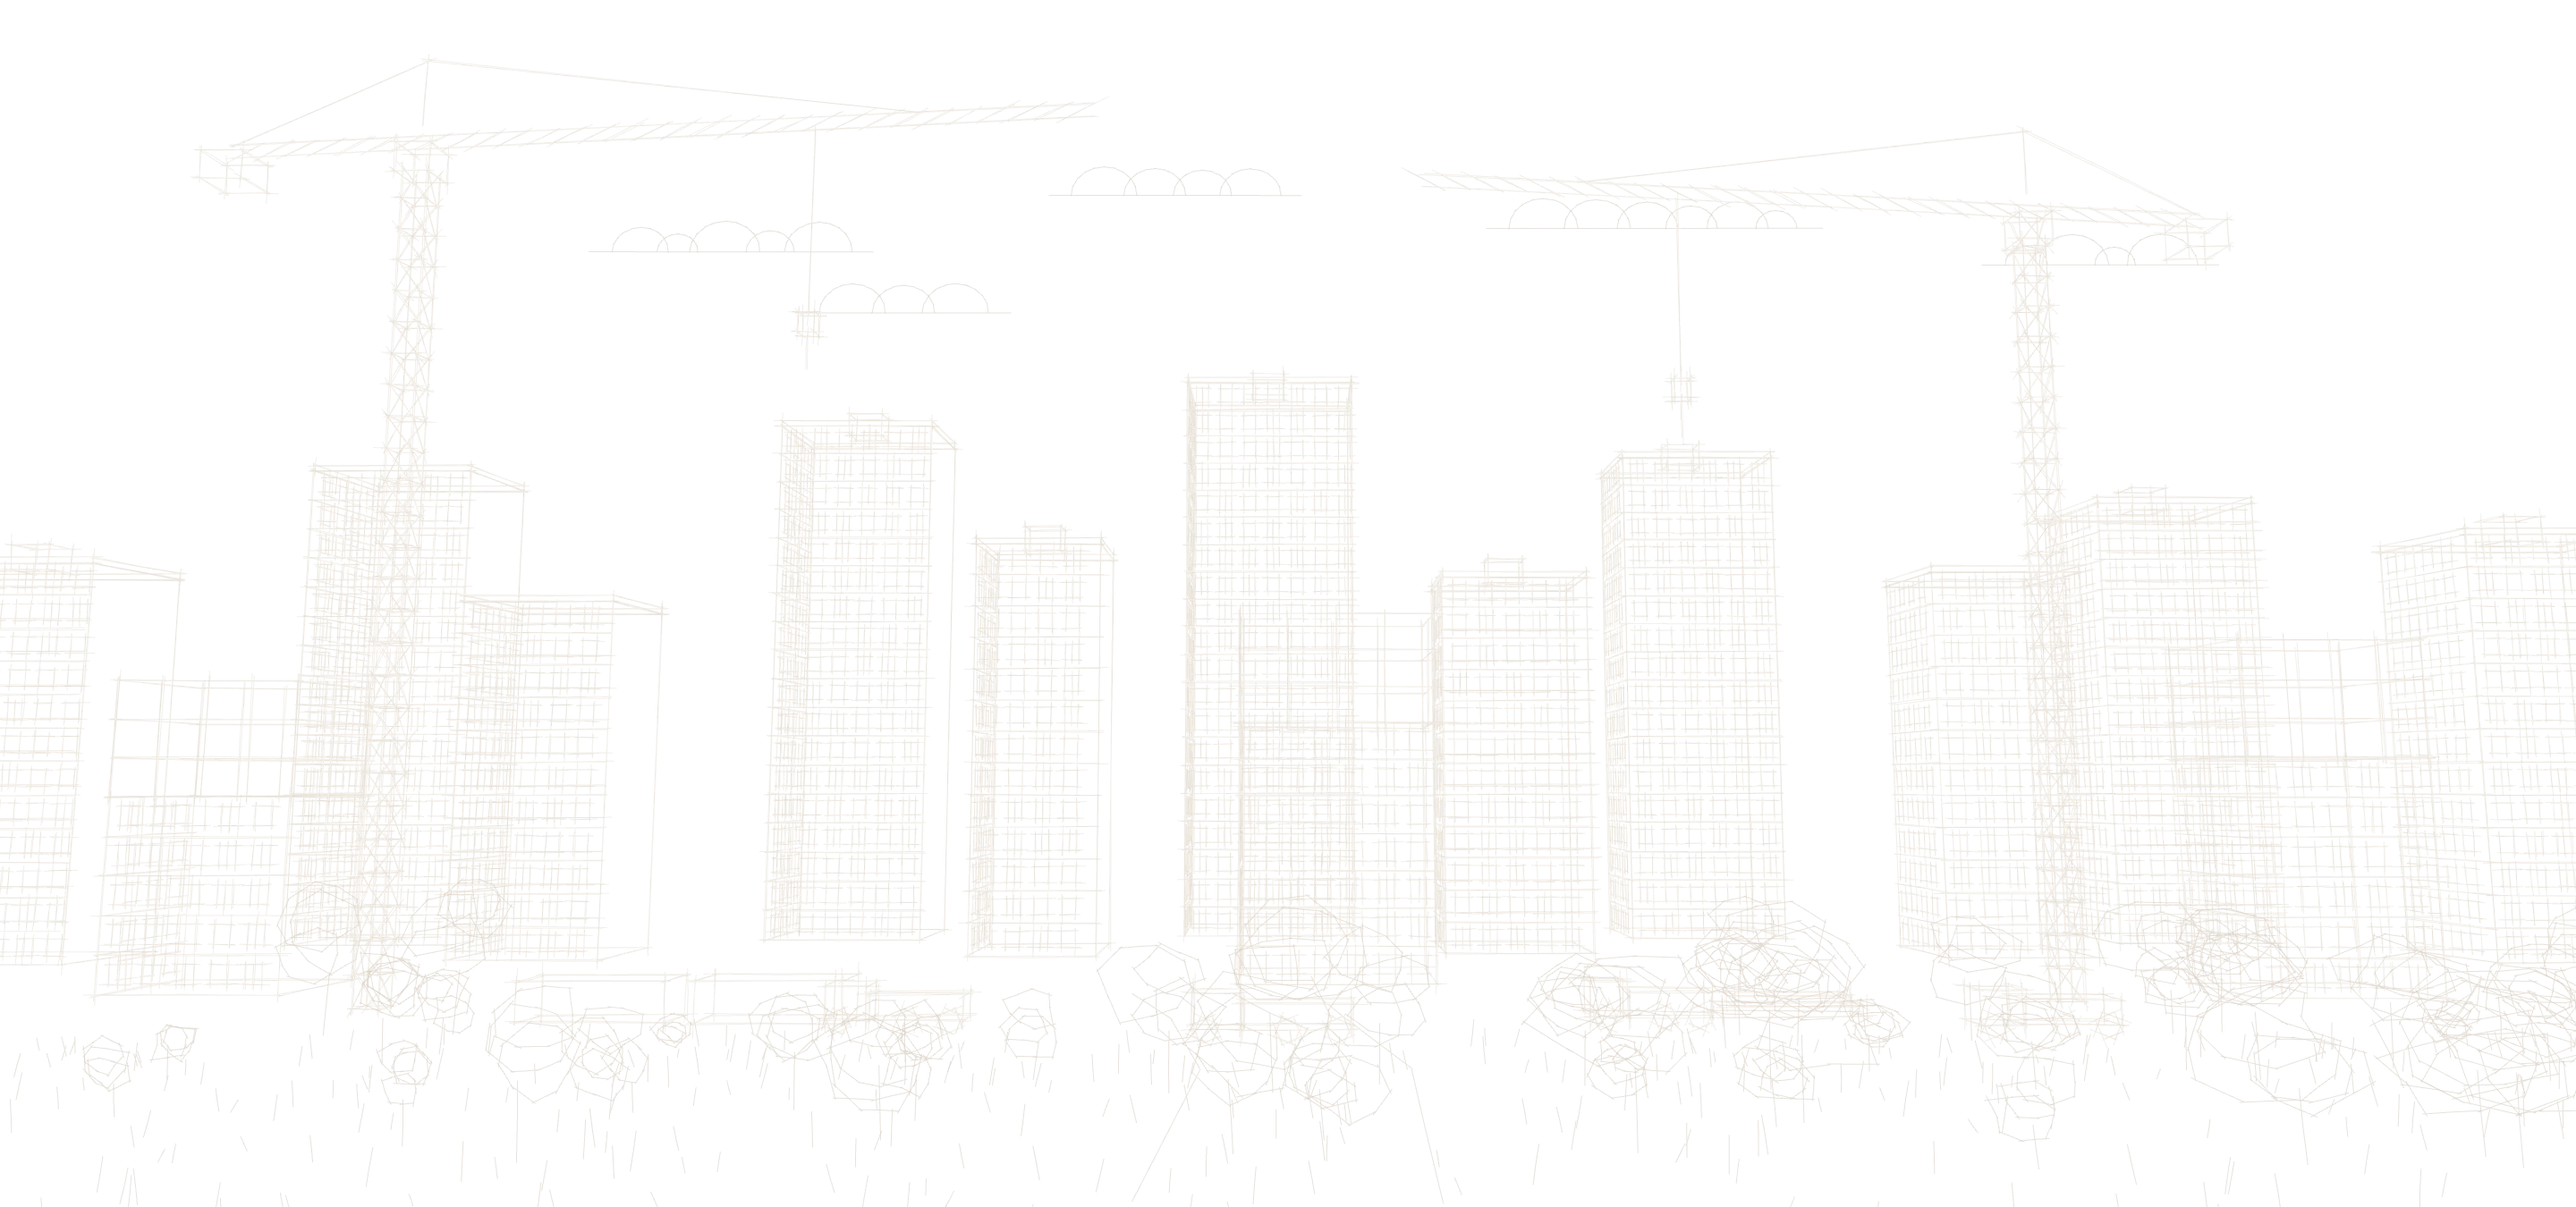
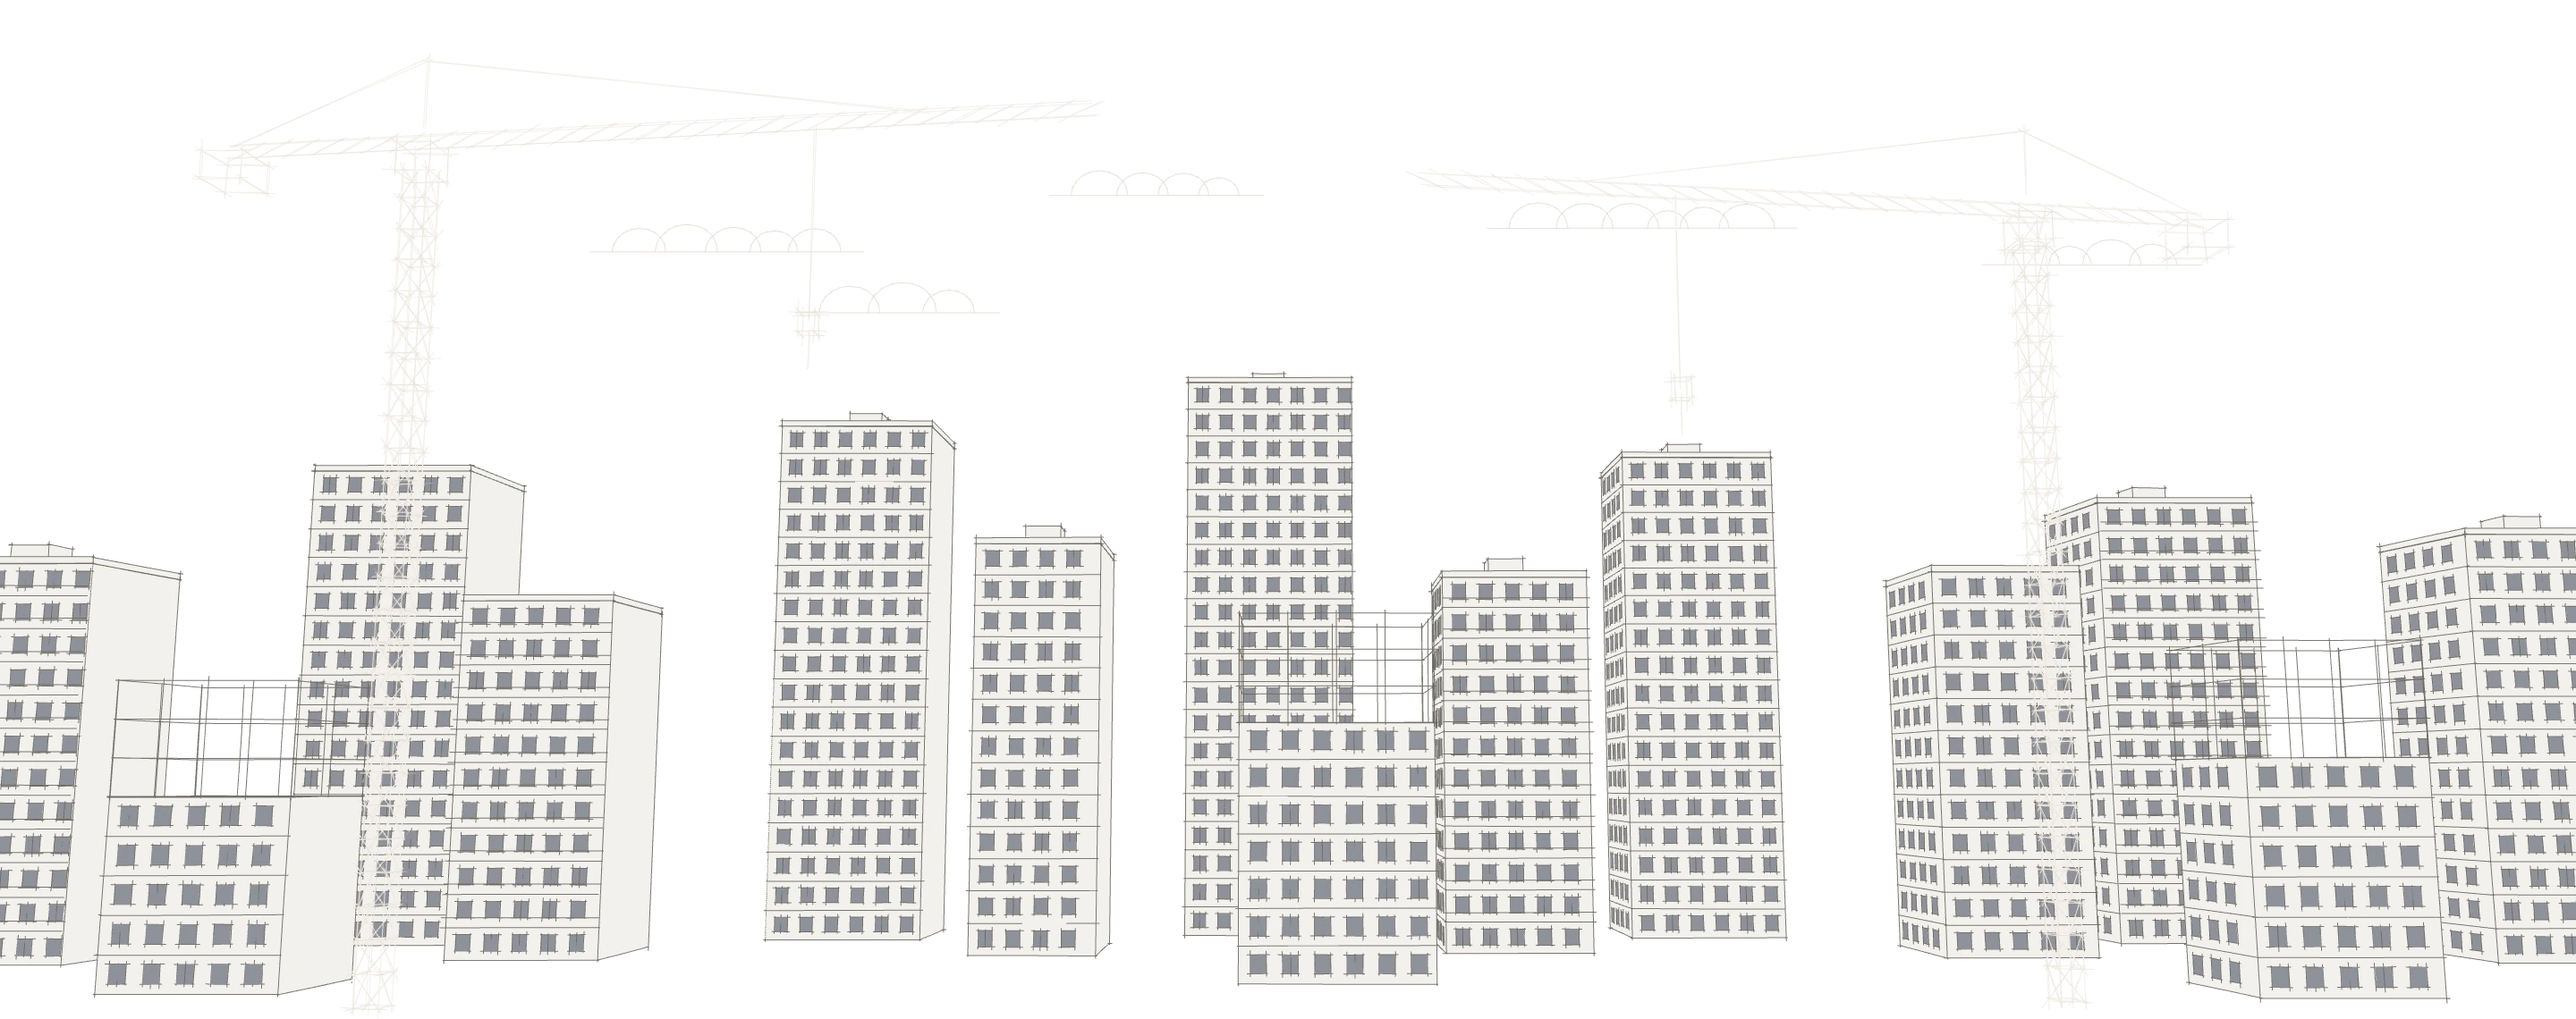
Рисунок квартала: белые дома, серые окна, без деревьев и техники
- Дома залиты белым, окна серые, контуры тёмно-серые; краны и облака линиями
- Деревья, трава, машины и дорога убраны, картинка обрезана по низу домов
- Панорама во всю ширину, прижата к низу; на телефоне — под текстом

Claude-Session: https://claude.ai/code/session_01XtS4qQeGhzcWBsbJRyNphB

Changed region(s): [[0.2812, 0.3684, 1.0, 0.9825], [0.0, 0.4298, 0.25, 0.9825]]

diff --git a/style.css b/style.css
@@ -799,5 +799,20 @@ body.menu-open .header { z-index: 300; background: transparent; border-bottom-co
 /* Остальные страницы: рисунок в шапках разделов и едва заметно на фоне */
 body:not(.page-home)::before { content: ""; position: fixed; inset: 0; z-index: -1; pointer-events: none;
   background: url('img/drawing-city.webp') center bottom / cover no-repeat; opacity: .07; }
-.hero-service-minimal { background: linear-gradient(90deg, rgba(28,23,19,.95) 0%, rgba(28,23,19,.75) 55%, rgba(28,23,19,.55) 100%), url('img/drawing-city.webp') center 70% / cover no-repeat, #1c1713; }
-.about-hero { background: linear-gradient(90deg, rgba(14,12,10,.94) 0%, rgba(14,12,10,.7) 55%, rgba(14,12,10,.45) 100%), url('img/drawing-city.webp') center 70% / cover no-repeat, #0e0c0a; }
+.hero-service-minimal { background: linear-gradient(90deg, rgba(28,23,19,.95) 0%, rgba(28,23,19,.75) 55%, rgba(28,23,19,.55) 100%), url('img/drawing-city.webp') center bottom / cover no-repeat, #1c1713; }
+.about-hero { background: linear-gradient(90deg, rgba(14,12,10,.94) 0%, rgba(14,12,10,.7) 55%, rgba(14,12,10,.45) 100%), url('img/drawing-city.webp') center bottom / cover no-repeat, #0e0c0a; }
+.home-drawing::after { background: linear-gradient(90deg, rgba(14,12,10,.85) 0%, rgba(14,12,10,.5) 40%, rgba(14,12,10,.05) 75%),
+                                   linear-gradient(0deg, rgba(14,12,10,.85) 0%, rgba(14,12,10,0) 22%); }
+/* рисунок — вся панорама по ширине, прижата к низу */
+.home-drawing .home-bg { background-size: 100% auto; background-position: center bottom; inset: 0; }
+.hero-service-minimal { background-size: auto, 100% auto, auto; background-position: 0 0, center bottom, 0 0; }
+.about-hero { background-size: auto, 100% auto, auto; background-position: 0 0, center bottom, 0 0; }
+body:not(.page-home)::before { background-size: 100% auto; }
+@media (max-width: 768px) {
+  .home-drawing .home-bg { background-size: auto 38vh; background-position: 30% bottom; }
+  .home-drawing::after { background: linear-gradient(180deg, rgba(14,12,10,.2) 0%, rgba(14,12,10,0) 55%, rgba(14,12,10,.35) 100%); }
+  .home-hero { align-items: flex-start; padding-top: 110px; }
+}
+.hero-service-minimal { background-image: linear-gradient(90deg, rgba(28,23,19,.96) 0%, rgba(28,23,19,.85) 55%, rgba(28,23,19,.72) 100%), url('img/drawing-city.webp'), none; }
+.about-hero { background-image: linear-gradient(90deg, rgba(14,12,10,.95) 0%, rgba(14,12,10,.8) 55%, rgba(14,12,10,.62) 100%), url('img/drawing-city.webp'), none; }
+body:not(.page-home)::before { opacity: .05; }
